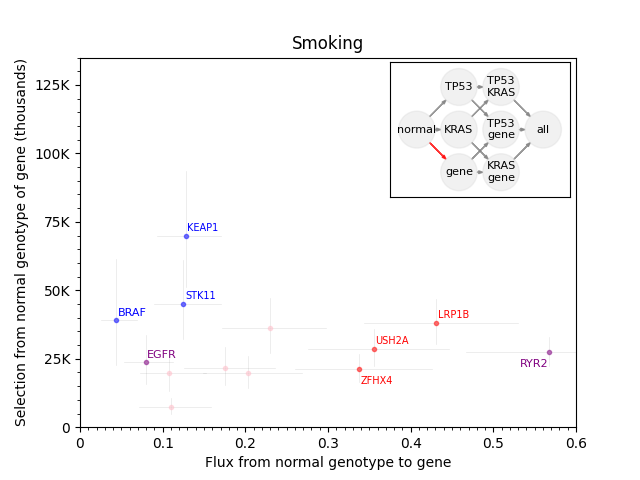
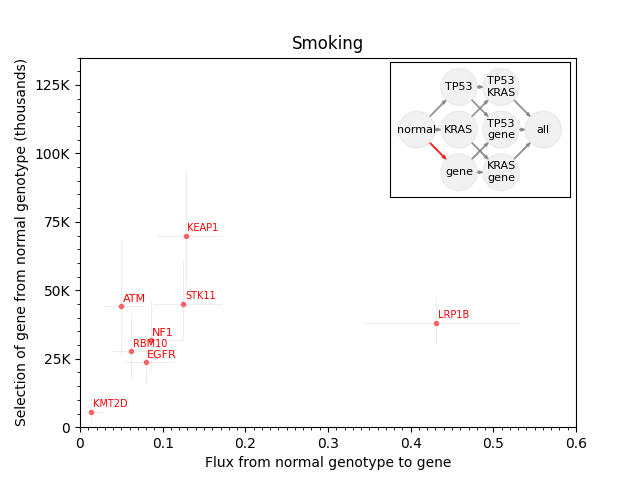
Test top 10 genes for figures

diff --git a/code/figures.py b/code/figures.py
@@ -8,6 +8,7 @@ from locations import location_figures
 from import_results import provide_all_relevant_lambdas_and_gammas
 from import_results import results_keys
 from import_results import pts_per_mutation
+from import_results import samples_per_combination
 
 all_lambdas, all_gammas = provide_all_relevant_lambdas_and_gammas()
 
@@ -103,7 +104,6 @@ def prettify_axis(ax, which, axis_args):
         set_label(axis_args['label'])
 
     return ax
-
 
 
 # def plot_estimates_ordered(all_mles, all_cis, xaxis_args=None,
@@ -229,7 +229,6 @@ def top_genes(rates, top=3):
                         key=lambda item: item[1],
                         reverse=True)[:top])
 
-
 top_genes_no_epi = set.union(*[set(top_genes(lambdas, top=5).keys())
                                for lambdas in [all_lambdas[key, 'no_epi', 'mles']
                                                          for key in results_keys]])
@@ -255,7 +254,13 @@ top_genes_from_normal = set.union(
                   top=5).keys()).difference(
                    {'CSMD3', 'TTN'}))
 
+
+top_genes_no_epi = set()
+top_genes_from_110 = set()
+top_genes_from_normal = set(pts_per_mutation[:10].index)
+
 top_genes_epi = set.union(top_genes_from_110, top_genes_from_normal)
+
 
 # for multi_key, lambdas in all_lambdas.items():
 #     if multi_key[2] == 'mles':
@@ -744,7 +749,7 @@ def plot_all():
 
     axis_args_gammas= {
         'lim':135,
-        'label':("Selection from normal genotype of gene "
+        'label':("Selection of gene from normal genotype "
                  "(thousands)"),
         'tick_each':25,
         'tick_minor_each':5,
@@ -827,7 +832,7 @@ def plot_all():
 
     axis_args_gammas= {
         'lim':2.4,
-        'label':("Selection from TP53+KRAS genotype of gene "
+        'label':("Selection of gene from TP53+KRAS genotype "
                  "(millions)"),
         'tick_each':0.5,
         'tick_minor_each':0.1,
@@ -907,7 +912,7 @@ def plot_all():
 
     axis_args_gammas= {
         'lim':550,
-        'label':("Selection from TP53+KRAS genotype of gene "
+        'label':("Selection of gene from TP53+KRAS genotype "
                  "(thousands)"),
         'tick_each':100,
         'tick_minor_each':50,
